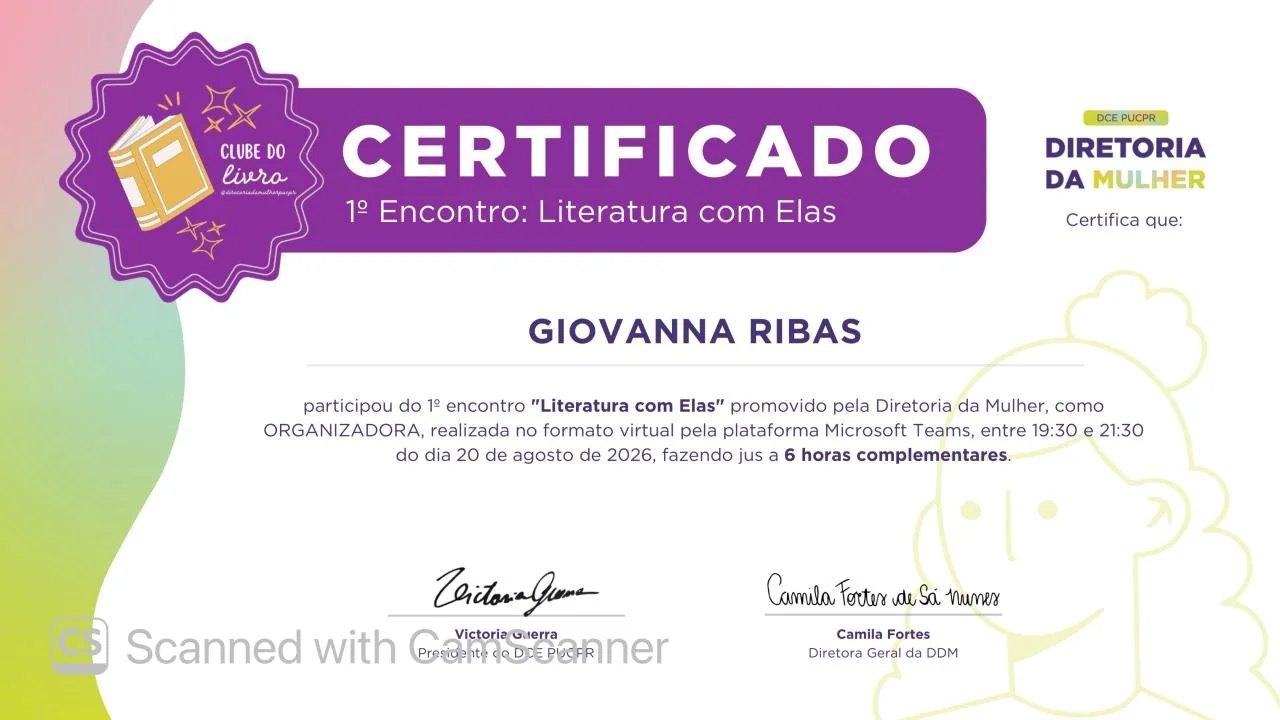
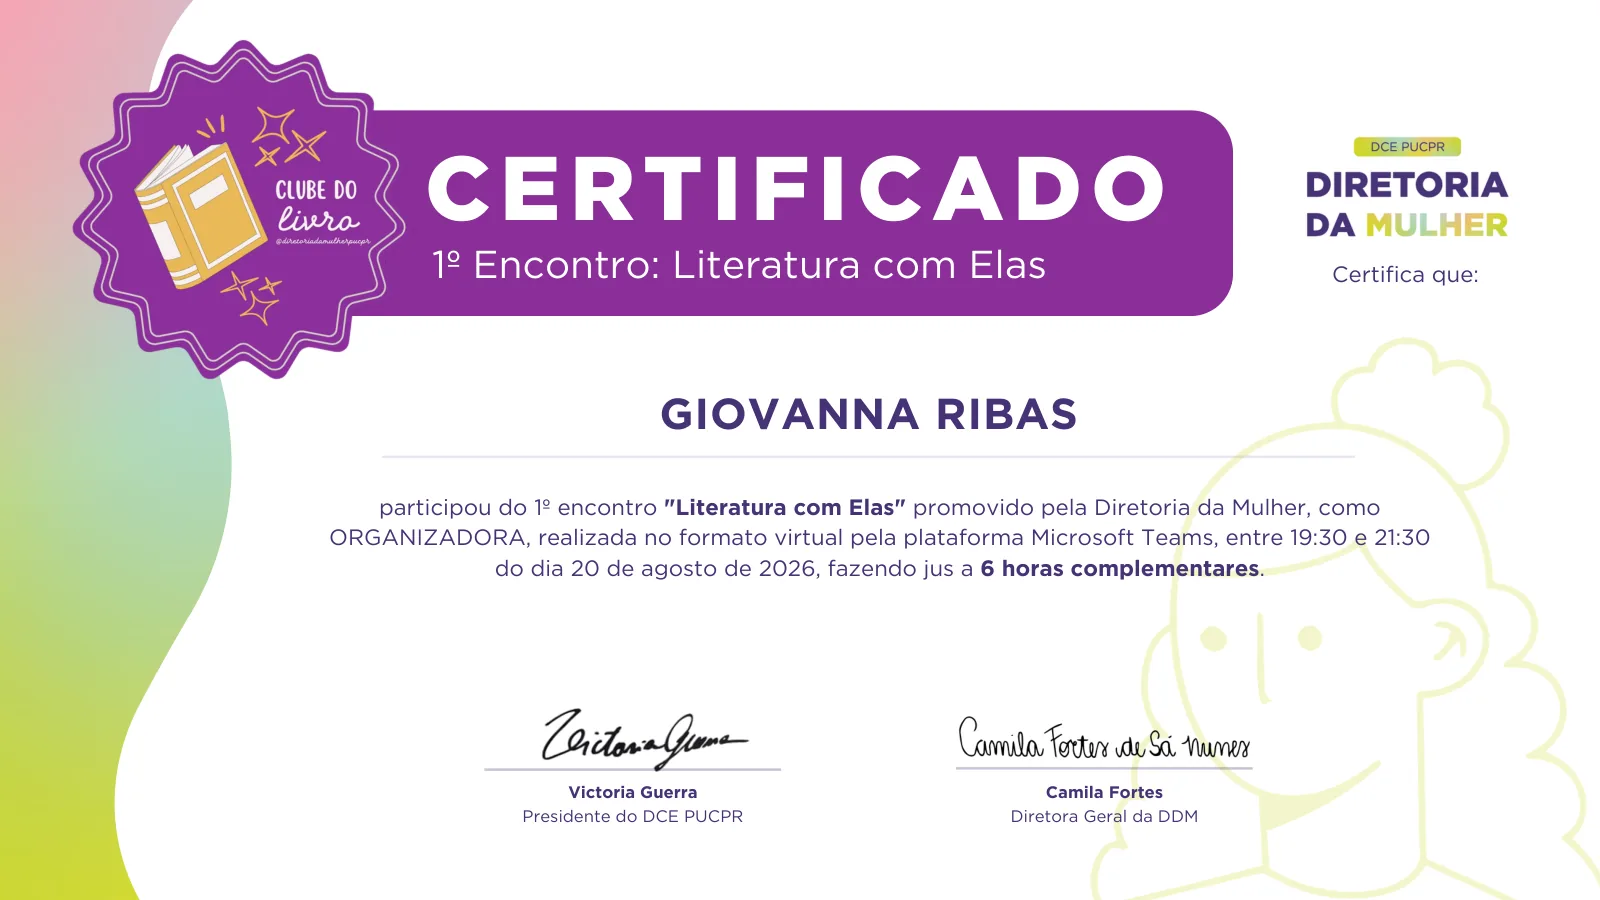
Use the original Diretoria da Mulher certificates
Vozes Femininas and Literatura com Elas now show clean renders of the
organizer certificates instead of phone scans (one carried a CamScanner
watermark). The Diretoria da Mulher card adds the 2026-1 certificate, and
Literatura com Elas notes Giovanna was one of the organizers.

Claude-Session: https://claude.ai/code/session_0145nuCd224gs5DWSds56D3U

diff --git a/index.html b/index.html
@@ -28,8 +28,8 @@
 <link href="https://fonts.googleapis.com/css2?family=Caveat:wght@400;500;600&family=DM+Mono:wght@400;500&family=DM+Sans:wght@400;500&family=Fraunces:ital,opsz,wght@0,9..144,400;0,9..144,500;0,9..144,600;1,9..144,400&family=Inter:wght@400;500;600&display=swap" rel="stylesheet">
 <link rel="stylesheet" href="https://cdn.jsdelivr.net/gh/devicons/devicon@v2.16.0/devicon.min.css">
 
-<link rel="stylesheet" href="style.css?v=20260925d">
-<link rel="stylesheet" href="gr-archive.css?v=20260925d">
+<link rel="stylesheet" href="style.css?v=20260925e">
+<link rel="stylesheet" href="gr-archive.css?v=20260925e">
 
 <script type="application/ld+json">
 {
@@ -519,7 +519,7 @@
       <img src="assets/images/community/interact.webp" width="1097" height="946" alt="">
       <span class="cat__cap">Interact Club <i>2024</i></span>
     </button>
-    <button type="button" class="cat" data-kind="community" data-detail="cd-ddm" data-images="assets/images/community/diretoria.webp,assets/images/community/ddm-diretorias-em-acao.webp" aria-hidden="true" tabindex="-1">
+    <button type="button" class="cat" data-kind="community" data-detail="cd-ddm" data-images="assets/images/community/diretoria.webp,assets/images/community/ddm-diretorias-em-acao.webp,assets/images/community/cert-ddm.webp" aria-hidden="true" tabindex="-1">
       <img src="assets/images/community/diretoria.webp" width="1500" height="2000" alt="">
       <span class="cat__cap">Diretoria da Mulher <i>2026</i></span>
     </button>
@@ -532,11 +532,11 @@
       <span class="cat__cap">Borboleta Menarca <i>2026</i></span>
     </button>
     <button type="button" class="cat" data-kind="event" data-detail="cd-vf" data-images="assets/images/community/vozes-femininas.webp,assets/images/community/vozes-femininas-poster.webp" aria-hidden="true" tabindex="-1">
-      <img src="assets/images/community/vozes-femininas.webp" width="1280" height="720" alt="">
+      <img src="assets/images/community/vozes-femininas.webp" width="1600" height="900" alt="">
       <span class="cat__cap">Vozes Femininas <i>2026</i></span>
     </button>
     <button type="button" class="cat" data-kind="event" data-detail="cd-lce" aria-hidden="true" tabindex="-1">
-      <img src="assets/images/community/literatura.webp" width="1280" height="720" alt="">
+      <img src="assets/images/community/literatura.webp" width="1600" height="900" alt="">
       <span class="cat__cap">Literatura com Elas <i>2026</i></span>
     </button>
     <button type="button" class="cat" data-kind="community" data-detail="cd-teia" aria-hidden="true" tabindex="-1">
@@ -628,6 +628,7 @@
       <h3>Literatura com Elas</h3>
       <p class="xp__meta"><span data-i18n="ci_lce_org">Diretoria da Mulher &mdash; PUCPR</span> &middot; <span data-i18n="ci_lce_period">Aug 20, 2026</span></p>
       <p data-i18n="ci_lce_t1">First edition of this gathering on women&rsquo;s literature and participation.</p>
+      <p data-i18n="ci_lce_t2">I was one of the organizers of this first meeting, held online.</p>
     </div>
     <div id="cd-teia">
       <h3>Teia do Bem</h3>
@@ -711,7 +712,7 @@
 </div>
 
 
-<script src="script.js?v=20260925d"></script>
-<script src="gr-archive.js?v=20260925d" defer></script>
+<script src="script.js?v=20260925e"></script>
+<script src="gr-archive.js?v=20260925e" defer></script>
 </body>
 </html>

diff --git a/script.js b/script.js
@@ -313,6 +313,7 @@
       ci_vf_t2: "As an organizer, I helped run the online talk &ldquo;O que ningu&eacute;m te ensina sobre independ&ecirc;ncia financeira&rdquo; (what no one teaches you about financial independence), with speaker Daniele Farfus.",
       ci_lce_org: "Diretoria da Mulher &mdash; PUCPR", ci_lce_period: "Aug 20, 2026",
       ci_lce_t1: "First edition of this gathering on women&rsquo;s literature and participation.",
+      ci_lce_t2: "I was one of the organizers of this first meeting, held online.",
       ci_dce_org: "SOMA (DCE) + Identidade Institucional PUCPR", ci_dce_period: "Aug 26, 2026",
       ci_dce_t1: "1st Student Relationship Gathering &mdash; team integration and strategic topics such as leadership, student protagonism and spirituality, through institutional presentations and guided activities.",
       ci_mp_h: "CAC Debate: 20 Years of the Lei Maria da Penha",
@@ -655,6 +656,7 @@
       ci_vf_t2: "Como organizadora, ajudei a realizar a palestra online &ldquo;O que ningu&eacute;m te ensina sobre independ&ecirc;ncia financeira&rdquo;, com a palestrante Daniele Farfus.",
       ci_lce_org: "Diretoria da Mulher &mdash; PUCPR", ci_lce_period: "20 de ago de 2026",
       ci_lce_t1: "Primeira edi&ccedil;&atilde;o desse encontro sobre literatura e participa&ccedil;&atilde;o das mulheres.",
+      ci_lce_t2: "Fui uma das organizadoras desse primeiro encontro, realizado online.",
       ci_dce_org: "Gest&atilde;o SOMA (DCE) + Identidade Institucional PUCPR", ci_dce_period: "26 de ago de 2026",
       ci_dce_t1: "1&ordm; Encontro do Relacionamento Estudantil &mdash; integra&ccedil;&atilde;o entre as equipes e aprofundamento em pautas estrat&eacute;gicas como lideran&ccedil;a, protagonismo estudantil e espiritualidade, por meio de apresenta&ccedil;&otilde;es institucionais e din&acirc;micas direcionadas.",
       ci_mp_h: "CAC Debate: 20 Anos da Lei Maria da Penha",

diff --git a/ASSETS_NEEDED.md b/ASSETS_NEEDED.md
@@ -37,6 +37,9 @@ documents with personal data, or anything that needs someone's permission.
   the public Instagram story) is the second photo on the Diretoria da Mulher card.
   `vozes-femininas-poster.webp` (the talk's poster) and `dce-sala.webp` (the room
   before the DCE + Identidade gathering) are second photos on those two event cards.
+  `vozes-femininas.webp` and `literatura.webp` are clean renders of the organizer
+  certificates (they replaced earlier phone scans); `cert-ddm.webp` is the
+  Diretoria da Mulher 2026-1 certificate, third photo on that card.
 - `assets/images/playground/` — design, illustration, photography and food pieces,
   filtered by category on the page.
 
